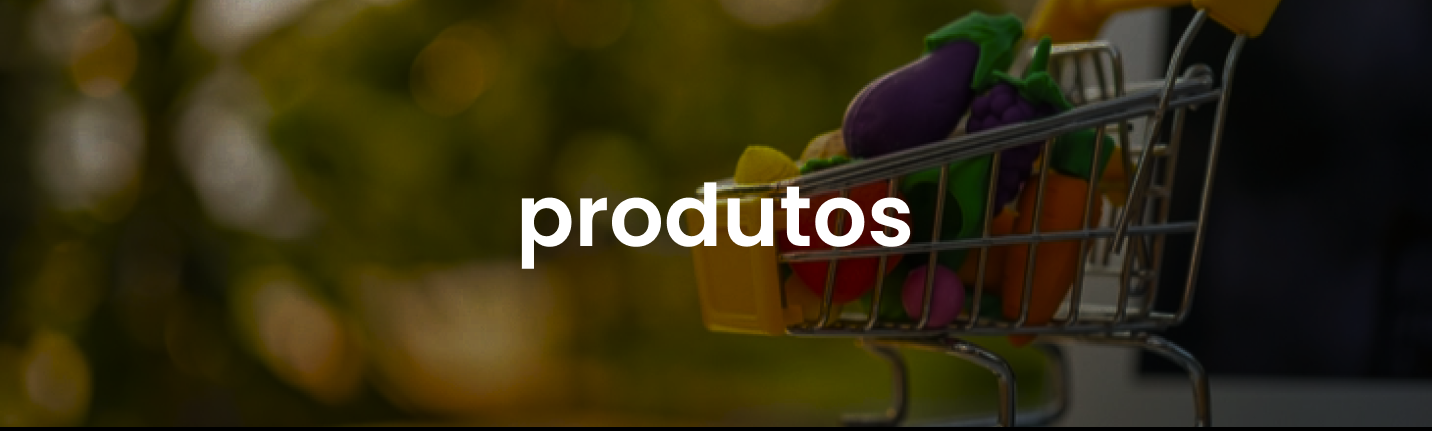
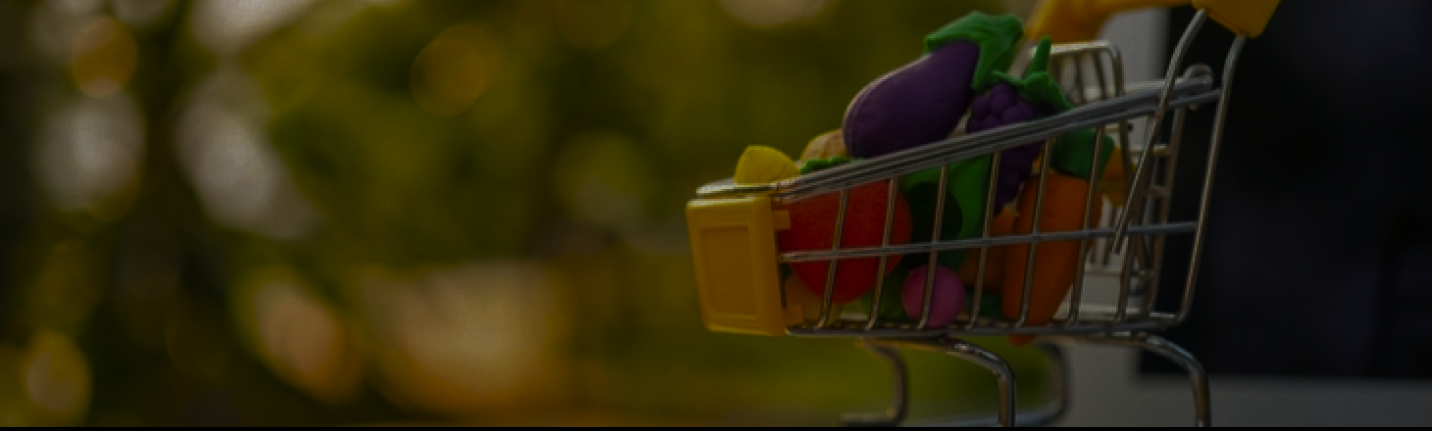
✨: contato & 💫: buttons focus

Changed region(s): [[0.338, 0.4223, 0.6453, 0.6334]]

diff --git a/src/assets/css/Contato/formContato.css b/src/assets/css/Contato/formContato.css
@@ -1,0 +1,63 @@
+.container-form {
+  max-width: 1280px;
+  margin: 0 auto;
+  display: flex;
+  align-items: center;
+  justify-content: center;
+  padding: 123px 0;
+  gap: 200px;
+}
+
+.form-edit label {
+  display: block;
+  font-size: 24px;
+  font-weight: 600;
+}
+
+.form-edit input,
+.form-edit textarea {
+  padding: 4px;
+  padding-left: 10px;
+  font-size: 18px;
+  outline: none;
+  max-width: 100%;
+  width: 320px;
+  border: 3px solid #000;
+  margin-bottom: 10px;
+  transition: 0.3s;
+  margin-left: 0;
+  display: block;
+}
+
+.form-edit textarea {
+  margin-bottom: 0;
+}
+
+.form-edit input:focus {
+  scale: 1.07;
+  box-shadow: 4px 4px 4px rgba(0, 0, 0, 0.7);
+}
+
+.form-edit textarea:focus {
+  scale: 1.04;
+  box-shadow: 4px 4px 4px rgba(0, 0, 0, 0.7);
+}
+
+.form-edit button {
+  padding: 6px 0;
+  width: 200px;
+  margin-top: 20px;
+  font-size: 24px;
+  font-weight: 600;
+  color: #838898;
+  background: none;
+  border: 3px solid #838898;
+  transition: 0.3s;
+}
+
+.form-edit button:hover {
+  scale: 1.07;
+  box-shadow: 4px 4px 4px rgba(0, 0, 0, 0.7);
+  border-color: #000;
+  color: #000;
+}

diff --git a/src/components/Contato/FormContato.jsx b/src/components/Contato/FormContato.jsx
@@ -1,0 +1,23 @@
+import "../../assets/css/Contato/formContato.css";
+import ContatoLogo from "../../assets/img/contato-logo.svg";
+
+function FormContato() {
+  return (
+    <section className="container-form">
+      <img src={ContatoLogo} alt="Logotipo contato" />
+      <form className="form-edit">
+        <label htmlFor="nome">nome</label>
+        <input type="text" id="nome" />
+        <label htmlFor="email">email</label>
+        <input type="text" id="email" placeholder="exemplo@email.com" />
+        <label htmlFor="telefone">telefone</label>
+        <input type="tel" id="telefone" placeholder="(21) 99999-9999" />
+        <label htmlFor="assunto">assunto</label>
+        <textarea name="assunto" id="assunto" rows={5}></textarea>
+        <button>enviar</button>
+      </form>
+    </section>
+  );
+}
+
+export default FormContato;

diff --git a/src/views/pages/Produtos.jsx b/src/views/pages/Produtos.jsx
@@ -1,13 +1,18 @@
 import Footer from "../partials/Fotter";
 import Menu from "../partials/Menu";
 import Horario from "../partials/Horario";
+import ProdutosBanner from "../../components/Produtos/ProdutosBanner";
+import ProdutosSearch from "../../components/Produtos/ProdutosSearch";
+import ProdutosItems from "../../components/Produtos/ProdutosItems";
 
 function Produtos() {
   return (
     <>
       <Horario />
       <Menu />
-      <h1>PRODUTOS</h1>
+      <ProdutosBanner />
+      <ProdutosSearch />
+      <ProdutosItems />
       <Footer />
     </>
   );

diff --git a/src/components/Produtos/Card.jsx b/src/components/Produtos/Card.jsx
@@ -1,0 +1,18 @@
+import Card from "react-bootstrap/Card";
+import { useContext } from "react";
+
+function CardX() {
+  return (
+    <Card style={{ width: "18rem" }}>
+      <Card.Img variant="top" src="holder.js/100px180" />
+      <Card.Body>
+        <Card.Title>Card Title</Card.Title>
+        <Card.Text>
+          Some quick example text to build on the card title and make up the bulk of the card's content.
+        </Card.Text>
+      </Card.Body>
+    </Card>
+  );
+}
+
+export default CardX;

diff --git a/src/assets/css/Produtos/produtosSearch.css b/src/assets/css/Produtos/produtosSearch.css
@@ -1,0 +1,28 @@
+.search-bg {
+  background-color: #fecb62;
+  padding: 20px 0;
+  display: flex;
+  justify-content: center;
+  align-items: center;
+  position: relative;
+}
+
+.search-bg input {
+  padding: 8px;
+  padding-left: 40px;
+  outline: none;
+  border: 3px solid #000;
+  width: 320px;
+  transition: 0.3s;
+}
+
+.search-bg input:focus {
+  box-shadow: 0 0 6px 2px #000;
+}
+
+.search-bg img {
+  position: relative;
+  width: 24px;
+  right: 310px;
+  filter: opacity(70%);
+}

diff --git a/src/components/Home/Destaques.jsx b/src/components/Home/Destaques.jsx
@@ -8,7 +8,7 @@ function Destaques() {
       <h1 className="destaques-title">destaques</h1>
       <Carousel
         className="caroulsel-indicators2"
-        style={{ display: "flex", justifyContent: "center", gap: "20px", padding: "80px 0" }}
+        style={{ display: "flex", justifyContent: "center", gap: "20px", padding: "80px 0 120px 0" }}
       >
         <Carousel.Item interval={9000000000}>
           <Card style={{ width: "18rem" }}>

diff --git a/src/assets/css/Produtos/produtosItems.css b/src/assets/css/Produtos/produtosItems.css
@@ -1,0 +1,20 @@
+.categoria-btn {
+  display: flex;
+  align-items: center;
+  justify-content: center;
+  padding: 40px 0;
+}
+
+.categoria-btn input {
+  font-size: 24px;
+  background: none;
+  padding: 4px 28px;
+  font-weight: 600;
+  border: 3px solid #000;
+  transition: 0.3s;
+}
+
+.categoria-btn input:hover {
+  box-shadow: 4px 4px 4px rgba(0, 0, 0, 0.5);
+  scale: 1.07;
+}

diff --git a/src/views/pages/Contato.jsx b/src/views/pages/Contato.jsx
@@ -1,13 +1,14 @@
 import Footer from "../partials/Fotter";
 import Horario from "../partials/Horario";
 import Menu from "../partials/Menu";
+import FormContato from "../../components/Contato/FormContato";
 
 function Contato() {
   return (
     <>
       <Horario />
       <Menu />
-      <h1>CONTATO</h1>
+      <FormContato />
       <Footer />
     </>
   );

diff --git a/src/components/Produtos/ProdutosSearch.jsx b/src/components/Produtos/ProdutosSearch.jsx
@@ -1,0 +1,13 @@
+import "../../assets/css/Produtos/produtosSearch.css";
+import Lupa from "../../assets/img/lupa.png";
+
+function produtosSearch() {
+  return (
+    <div className="search-bg">
+      <input type="search" placeholder="Pesquisar" />
+      <img src={Lupa} alt="Lupa de pesquisa" />
+    </div>
+  );
+}
+
+export default produtosSearch;

diff --git a/src/assets/css/Home/banner.css b/src/assets/css/Home/banner.css
@@ -10,11 +10,11 @@
 }
 
 .carousel-control-next-icon {
-  background-image: url("../img/arrow-right.svg");
+  background-image: url("../../img/arrow-right.svg");
 }
 
 .carousel-control-prev-icon {
-  background-image: url("../img/arrow-left.svg");
+  background-image: url("../../img/arrow-left.svg");
 }
 
 .carousel-control-next {

diff --git a/src/components/Produtos/ProdutosItems.jsx b/src/components/Produtos/ProdutosItems.jsx
@@ -1,0 +1,15 @@
+import CardX from "./Card";
+import "../../assets/css/Produtos/produtosItems.css";
+
+function ProdutosItems() {
+  return (
+    <>
+      <div className="categoria-btn">
+        <input type="button" value="categoria" />
+      </div>
+      <CardX />
+    </>
+  );
+}
+
+export default ProdutosItems;

diff --git a/src/assets/css/Produtos/produtosBanner.css b/src/assets/css/Produtos/produtosBanner.css
@@ -1,0 +1,14 @@
+.produtos-banner {
+  background-image: url("../../img/produtos-banner.png");
+  background-size: cover;
+  height: 40vh;
+  object-fit: cover;
+  display: flex;
+  justify-content: center;
+  align-items: center;
+}
+
+.produtos-banner h1 {
+  font-size: 64px;
+  color: #fff;
+}
